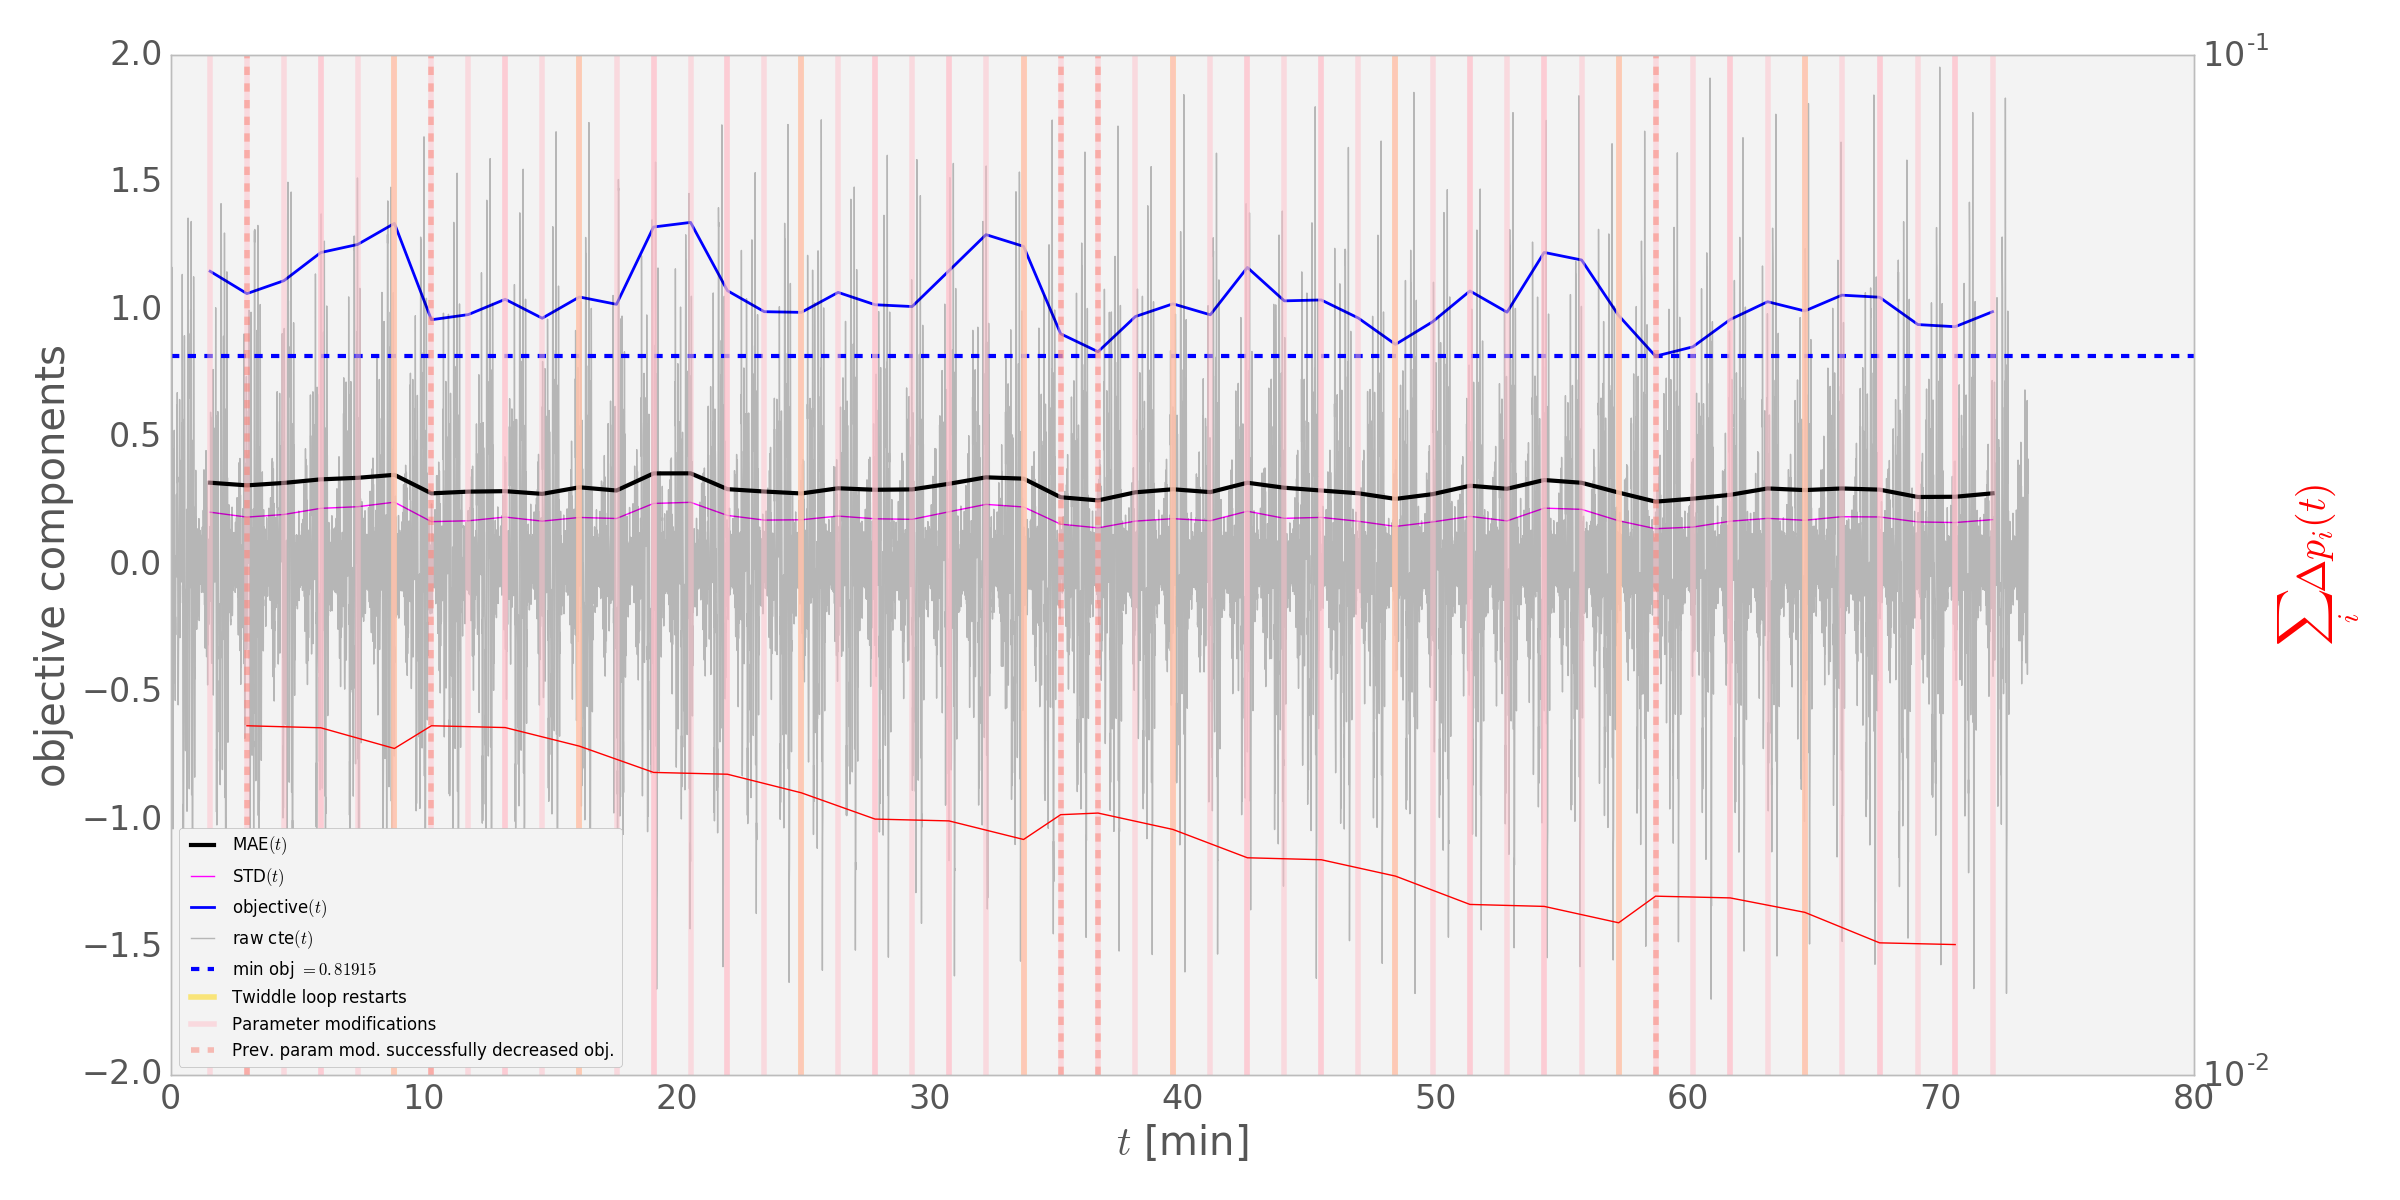
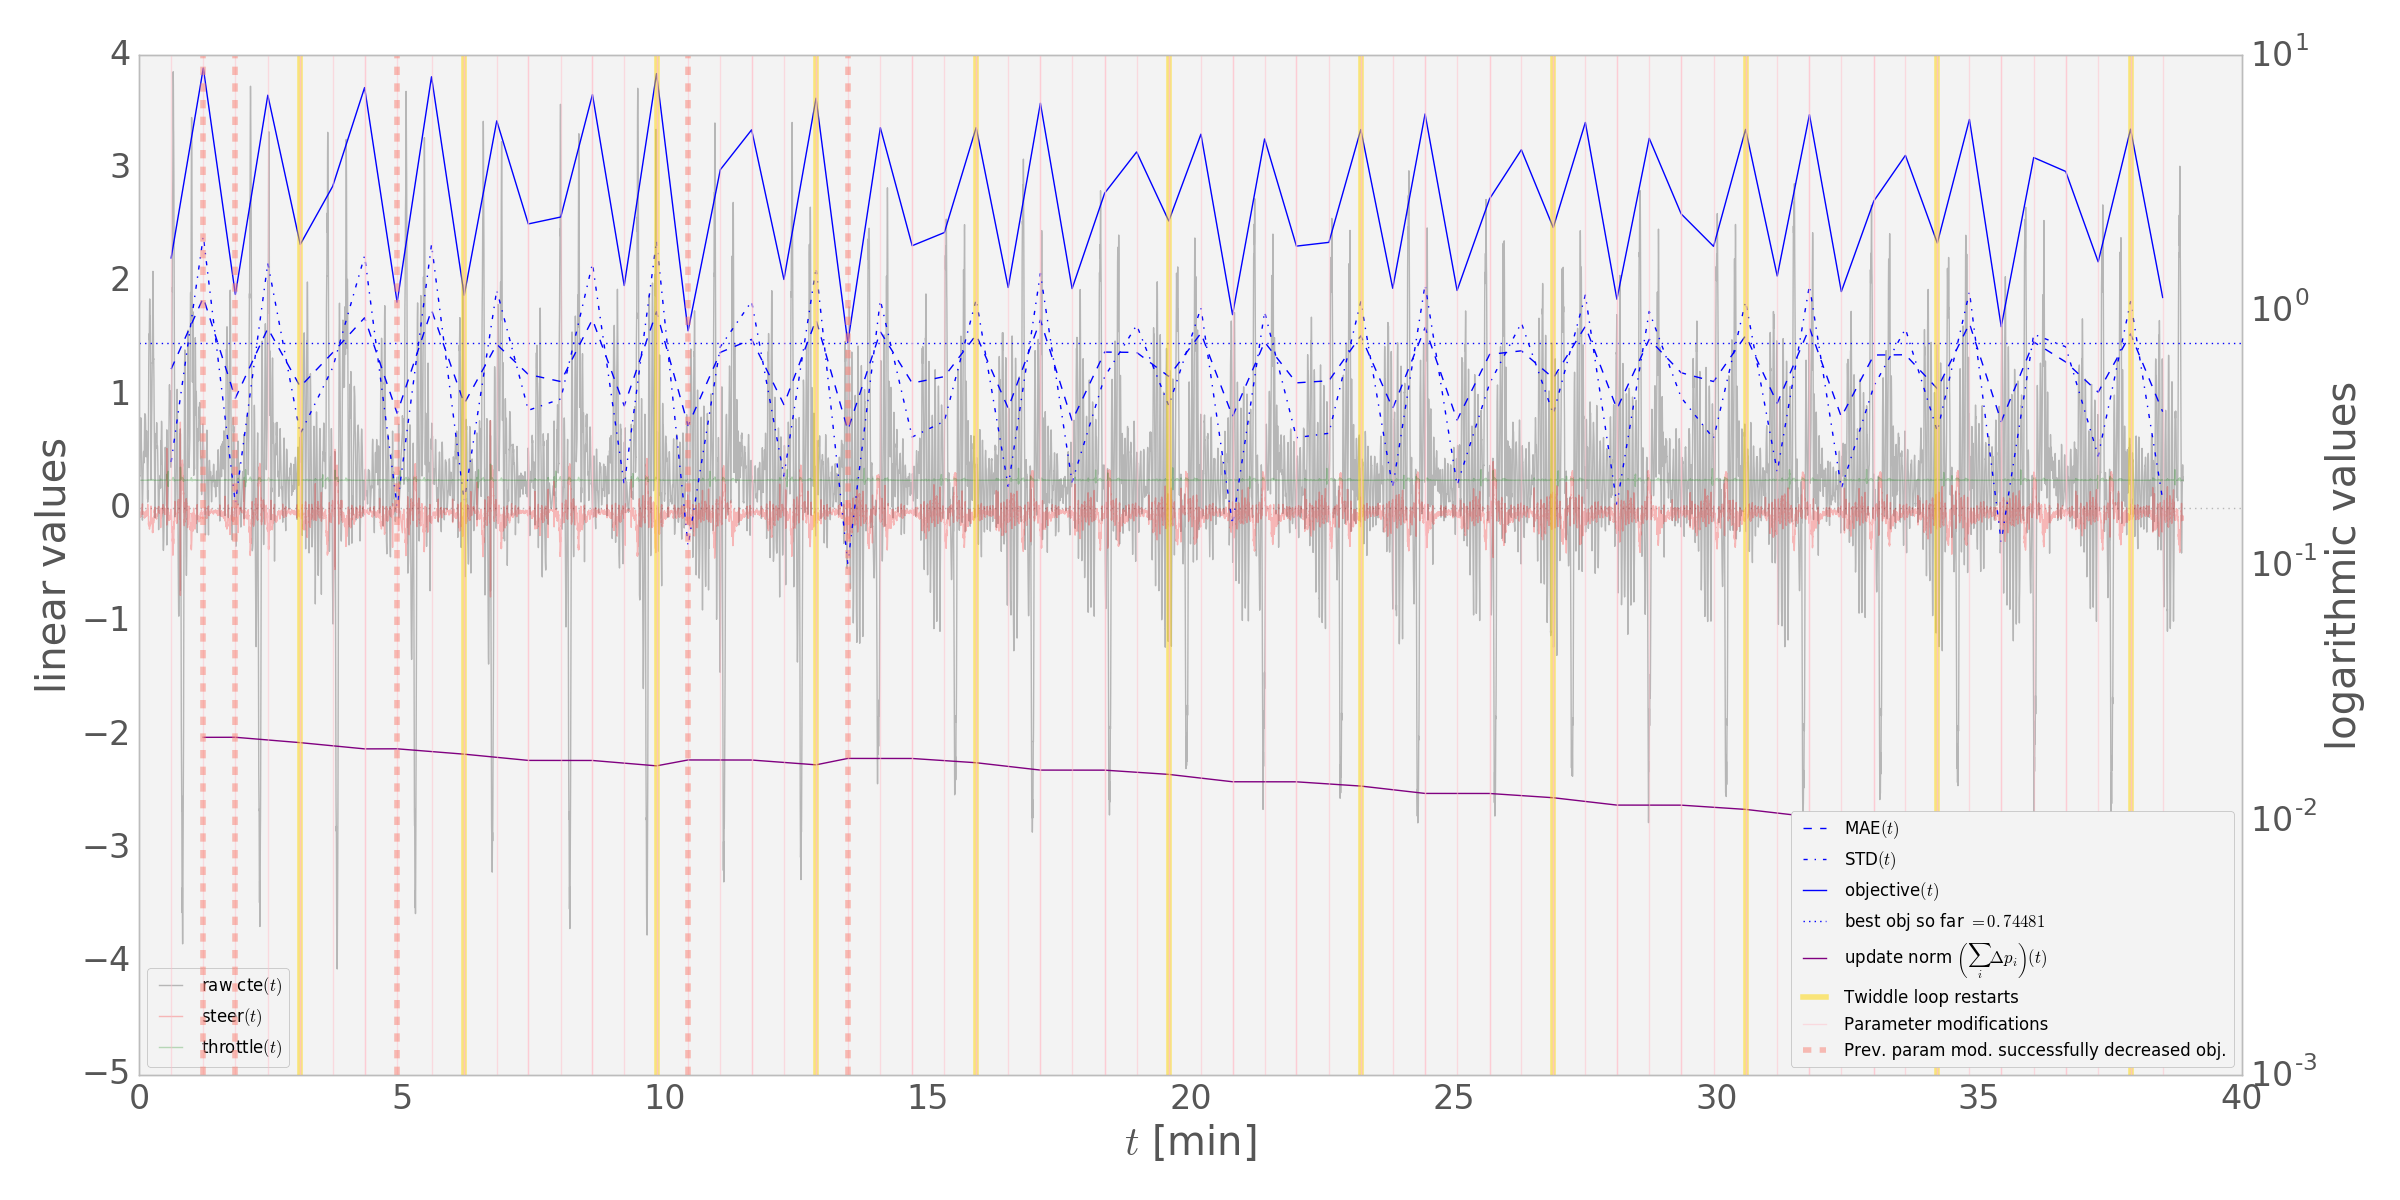
Decouple throttle from steering; limit i term history.

diff --git a/bin/plot.py b/bin/plot.py
@@ -24,15 +24,28 @@ with open(fname, 'r') as f:
 # Read CTE log.
 cte_history = []
 cte_history_times = []
+steer_history = []
+throttle_history = []
+t0_cte = None
+# Discard the first fraction of a minute of telemetry.
+cte_discard = 0.04 * 1000 * 60
 with open('../build/cte.csv', 'r') as ctefile:
     for line in ctefile.readlines():
-        t, cte, speed, angle = line.split(',')
-        cte_history.append(float(cte))
-        cte_history_times.append(int(t))
-
+        t, cte, speed, angle, steer, throttle = line.split(',')
+        t = int(t)
+        if t0_cte is None:
+            t0_cte = t
+        if t - t0_cte > cte_discard:
+            cte_history.append(float(cte))
+            cte_history_times.append(t)
+            steer_history.append(float(steer))
+            throttle_history.append(float(throttle))
 
 parameter_history = []
 parameter_history_times = []
+
+accepted_parameter_history = []
+accepted_parameter_history_times = []
 
 diff_parameter_history = []
 diff_parameter_history_times = []
@@ -67,6 +80,8 @@ for l in lines:
         continue
 
     if 'succeed' in l:
+        accepted_parameter_history.append(parameter_history[-1])
+        accepted_parameter_history_times.append(parameter_history_times[-1])
         success_times.append(t_clock)
 
     elif 'dp =' in l:
@@ -110,13 +125,16 @@ for l in lines:
 ar = lambda v: np.array(v).astype(float)
 
 parameter_history = ar(parameter_history)
+accepted_parameter_history = ar(accepted_parameter_history)
 diff_parameter_history = ar(diff_parameter_history)
-obj_history = ar(obj_history)
-mae_history = ar(mae_history)
-std_history = ar(std_history)
-cte_history = ar(cte_history)
+# obj_history = ar(obj_history)
+# mae_history = ar(mae_history)
+# std_history = ar(std_history)
+# cte_history = ar(cte_history)
+# steer_history = ar(steer_history)
 
 parameter_history_times = ar(parameter_history_times)
+accepted_parameter_history_times = ar(accepted_parameter_history)
 diff_parameter_history_times = ar(diff_parameter_history_times)
 obj_history_times = ar(obj_history_times)
 mae_history_times = ar(mae_history_times)
@@ -129,21 +147,24 @@ success_times = ar(success_times)
 
 
 # Find the modal number-of-samples per parameter change.
-param_modification_steps = []
-i = 0
-cte_times_shrinking = np.copy(cte_history_times)
-for t in param_modification_times:
-    if len(cte_times_shrinking) == 0:
-        break
-    i_local = np.argmin(np.abs(t - cte_times_shrinking))
-    i += i_local
-    param_modification_steps.append(int(i))
-    cte_times_shrinking = cte_times_shrinking[i_local:]
-diffs = np.diff(param_modification_steps)
-diffs = diffs[diffs!=0]
-(_, idx, counts) = np.unique(diffs, return_index=True, return_counts=True)
-index = idx[np.argmax(counts)]
-nsamps = diffs[index]
+try:
+    param_modification_steps = []
+    i = 0
+    cte_times_shrinking = np.copy(cte_history_times)
+    for t in param_modification_times:
+        if len(cte_times_shrinking) == 0:
+            break
+        i_local = np.argmin(np.abs(t - cte_times_shrinking))
+        i += i_local
+        param_modification_steps.append(int(i))
+        cte_times_shrinking = cte_times_shrinking[i_local:]
+    diffs = np.diff(param_modification_steps)
+    diffs = diffs[diffs!=0]
+    (_, idx, counts) = np.unique(diffs, return_index=True, return_counts=True)
+    index = idx[np.argmax(counts)]
+    nsamps = diffs[index]
+except ValueError:
+    nsamps = None
 add_fname_segment('nsamps', nsamps)
 
 Ts = (
@@ -159,47 +180,60 @@ for a in Ts:
     a[:] /= 1000 * 60
 
 fig, ax = plt.subplots(figsize=(24,12))
-ax.plot(mae_history_times, mae_history, color='black', label='MAE$(t)$', linewidth=3)
-ax.plot(std_history_times, std_history, color='magenta', label='STD$(t)$')
-ax.plot(obj_history_times, obj_history, 
-    color='blue', linewidth=2, linestyle='-', label='objective$(t)$')
+ax2 = ax.twinx()
+ax.axhline(0, color='black', alpha=.25, linestyle=':')
+
+ax2.plot(mae_history_times, mae_history, 
+    color='blue', label='MAE$(t)$', linewidth=1, linestyle='--')
+ax2.plot(std_history_times, std_history, 
+    color='blue', label='STD$(t)$', linewidth=1, linestyle='-.')
+ax2.plot(obj_history_times, obj_history, 
+    color='blue', linewidth=1, linestyle='-', label='objective$(t)$')
+
 ax.plot(cte_history_times, cte_history,
         color='black', alpha=.25, linestyle='-', label='raw cte$(t)$')
+ax.plot(cte_history_times, steer_history,
+        color='red', alpha=.25, linestyle='-', label='steer$(t)$')
+ax.plot(cte_history_times, throttle_history,
+        color='green', alpha=.25, linestyle='-', label='throttle$(t)$')
+
 ax.grid(False)
+ax2.grid(False)
 
 if len(obj_history) > 0:
     mobj = min(obj_history)
-    ax.axhline(mobj, label='min obj $=%.5f$' % mobj,
-        linewidth=3, linestyle='--', color='blue')
+    ax2.axhline(mobj, label='best obj so far $=%.5f$' % mobj,
+        linewidth=1, linestyle=':', color='blue')
 
 if len(diff_parameter_history) > 0:
-    ax2 = ax.twinx()
     ax2.plot(
         diff_parameter_history_times,
-        np.sum(diff_parameter_history, axis=1), color='red'
+        np.sum(diff_parameter_history, axis=1), color='purple',
+        label=r'update norm $\left(\sum_i \Delta p_i\right)(t)$',
     )
-    ax2.set_ylabel('$\sum_i \Delta p_i(t)$', color='red')
+    ax2.set_ylabel('logarithmic values')
     ax2.set_yscale('log')
-    ax2.grid(False)
+    
 
 label = 'Twiddle loop restarts'
 for t in cycle_start_times:
-    ax.axvline(t, color='gold', lw=4, label=label, alpha=.5)
+    ax2.axvline(t, color='gold', lw=4, label=label, alpha=.5)
     label = None
 
 label = 'Parameter modifications'
 for t in param_modification_times:
-    ax.axvline(t, color='pink', lw=4, label=label, alpha=.5)
+    ax2.axvline(t, color='pink', lw=1, label=label, alpha=.5)
     label = None
 
 label = 'Prev. param mod. successfully decreased obj.'
 for t in success_times:
-    ax.axvline(t, color='salmon', lw=4, label=label, alpha=.5, linestyle='--')
+    ax2.axvline(t, color='salmon', lw=4, label=label, alpha=.5, linestyle='--')
     label = None
 
 ax.set_xlabel('$t$ [min]')
-ax.set_ylabel('objective components')
+ax.set_ylabel('linear values')
 ax.legend(fontsize=12, loc='lower left')
+ax2.legend(fontsize=12, loc='lower right')
 
 fig.tight_layout()
 
@@ -207,18 +241,26 @@ for fname in ['error_hist-%s.png' % get_fname_segments(), 'error_hist.png']:
     fig.savefig(fname)
 
 
-fig, (ax1, ax2) = plt.subplots(ncols=2)
-ax1.scatter(parameter_history[:, 0], parameter_history[:, 1], c=range(len(parameter_history)))
-ax1.set_xlabel('$p_0(t)$')
-ax1.set_ylabel('$p_1(t)$')
+fig, (ax1, ax2) = plt.subplots(ncols=2, figsize=(16,9))
+try:
+    ax1.scatter(parameter_history[:, 0], parameter_history[:, 1], c=range(len(parameter_history)))
+    ax1.plot(accepted_parameter_history[:, 0], accepted_parameter_history[:, 1],
+        linewidth=2, color='red')
+    ax1.set_xlabel('$p_0(t)$')
+    ax1.set_ylabel('$p_1(t)$')
 
-ax2.scatter(parameter_history[:, 0], parameter_history[:, 2], c=range(len(parameter_history)))
-ax2.set_xlabel('$p_0(t)$')
-ax2.set_ylabel('$p_2(t)$')
+    sc = ax2.scatter(parameter_history[:, 0], parameter_history[:, 2], c=range(len(parameter_history)))
+    ax2.plot(accepted_parameter_history[:, 0], accepted_parameter_history[:, 2],
+        linewidth=2, color='red')
+    fig.colorbar(sc, ax=ax2, label='iteration')
+    ax2.set_xlabel('$p_0(t)$')
+    ax2.set_ylabel('$p_2(t)$')
 
-fig.tight_layout()
+    fig.tight_layout()
 
-for fname in ['space_trajectory-%s.png' % get_fname_segments(), 'space_trajectory.png']:
-    fig.savefig(fname)
+    for fname in ['space_trajectory-%s.png' % get_fname_segments(), 'space_trajectory.png']:
+        fig.savefig(fname)
+except IndexError:
+    plt.close(fig)
 
 plt.show()

diff --git a/src/twiddle_main.cpp b/src/twiddle_main.cpp
@@ -12,12 +12,12 @@
 
 
 // Set parameters.
-#define TARGETSPEED 40.0
+#define TARGETSPEED 30.0
 #define CREEPSPEED 3.0
 #define MAXANGLE 25.0
-#define NSAMPLES 2000
-#define NDISCARD 128
-#define TWIDDLETOL 0.0001
+#define NSAMPLES 800
+#define NDISCARD 32
+#define TWIDDLETOL 0.001
 
 // for convenience
 using json = nlohmann::json;
@@ -52,13 +52,13 @@ int main() {
     PID pid_steering;
     PID pid_throttle;
 
-    // Need to tune these.
+    // Need to tune PID parameters.
 
     // Pretty good values:
     //pid_steering.Init(0.25409, 0.000654, 1.95139);
 
-    // Bad values for twiddling:
-    pid_steering.Init(8e-2, 1e-2, 4e0);
+    // Bad initial values for twiddling:
+    pid_steering.Init(8e-2, 1e-4, 5e-1);
 
     pid_throttle.Init(0.3, 0, 0.02);
     
@@ -86,17 +86,13 @@ int main() {
                     double speed = std::stod(j[1]["speed"].get<std::string>());
                     double angle = std::stod(j[1]["steering_angle"].get<std::string>());
 
-                    cte_log_file << epoch_time()<<", " << cte<<"," << speed<<"," <<angle<< std::endl;
-
-                    // std::cout << "Current angle/speed is " << angle << "/" << speed << std::endl;
 
                     pid_steering.UpdateError(cte);
 
-                    double speedTarget = TARGETSPEED * (1 - fabs(angle/MAXANGLE) - .5*fabs(cte));
-                    // std::cout << "Speed target is " << speedTarget;
+                    double speedTarget = TARGETSPEED;// * (1 - fabs(angle/MAXANGLE) - .5*fabs(cte));
                     speedTarget = std::max(CREEPSPEED, speedTarget);
-                    // std::cout << " --> " << speedTarget << std::endl;
                     pid_throttle.UpdateError(speed - speedTarget);
+
 
                     /*
                     * TODO: Calcuate steering value here, remember the steering value is
@@ -107,8 +103,9 @@ int main() {
                     double steer_value = std::max(-1.0, std::min(1.0, pid_steering.TotalError()));
                     double throttle = std::max(pid_throttle.TotalError(), 0.0);
 
-                    // DEBUG
-                    // std::cout << "CTE: " << cte << " Steering Value: " << steer_value << std::endl;
+                    // Save to log file.
+                    cte_log_file <<epoch_time()<<", " <<cte<<","   <<speed<<"," <<angle<<",";
+                    cte_log_file <<steer_value<<","   <<throttle<< std::endl;
 
                     json msgJson;
                     msgJson["steering_angle"] = steer_value;

diff --git a/src/twiddle.cpp b/src/twiddle.cpp
@@ -2,6 +2,7 @@
 #include <iostream>
 #include <cmath>
 #include <chrono>
+#include <algorithm> //  min, max
 
 using namespace std;
 
@@ -213,9 +214,11 @@ TwiddlerManager::TwiddlerManager(std::vector<PID*>& pids, unsigned int tmax, dou
 		new_parameters[i*3+1] = pid->Ki;
 		new_parameters[i*3+2] = pid->Kd;
 
-		new_diff_parameters[i*3+0] = 1e-2;
-		new_diff_parameters[i*3+1] = 1e-3;
-		new_diff_parameters[i*3+2] = 1e-2;
+		// At most, allow the first step to be to zero,
+        // not negative!
+		new_diff_parameters[i*3+0] = min(1e-2, pid->Kp);
+		new_diff_parameters[i*3+1] = min(1e-4, pid->Ki);
+		new_diff_parameters[i*3+2] = min(1e-2, pid->Kd);
 		
 		i++;
 	}

diff --git a/src/PID.cpp b/src/PID.cpp
@@ -1,6 +1,8 @@
 #include <iostream>
 #include "PID.h"
 
+#define MAX_CTE_HISTORY_LENGTH 200
+
 using namespace std;
 
 /*
@@ -22,13 +24,19 @@ void PID::Init(double Kp, double Ki, double Kd) {
 }
 
 void PID::UpdateError(double cte) {
+    cte_history.push_back(cte);
     d_error = cte - p_error;
     p_error = cte;
     i_error += cte;
 
+    if(cte_history.size() >= MAX_CTE_HISTORY_LENGTH) {
+        i_error -= cte_history[0];
+        cte_history.pop_front();
+    }
+
 }
 
 double PID::TotalError() {
-    return -Kp * p_error - Ki * i_error - Kd * d_error;
+    return - Kp * p_error - Ki * i_error - Kd * d_error;
 }
 

diff --git a/src/PID.h b/src/PID.h
@@ -1,7 +1,13 @@
 #ifndef PID_H
 #define PID_H
 
+#include <deque>
+
+
 class PID {
+private:
+  std::deque<double> cte_history;
+
 public:
   /*
   * Errors
